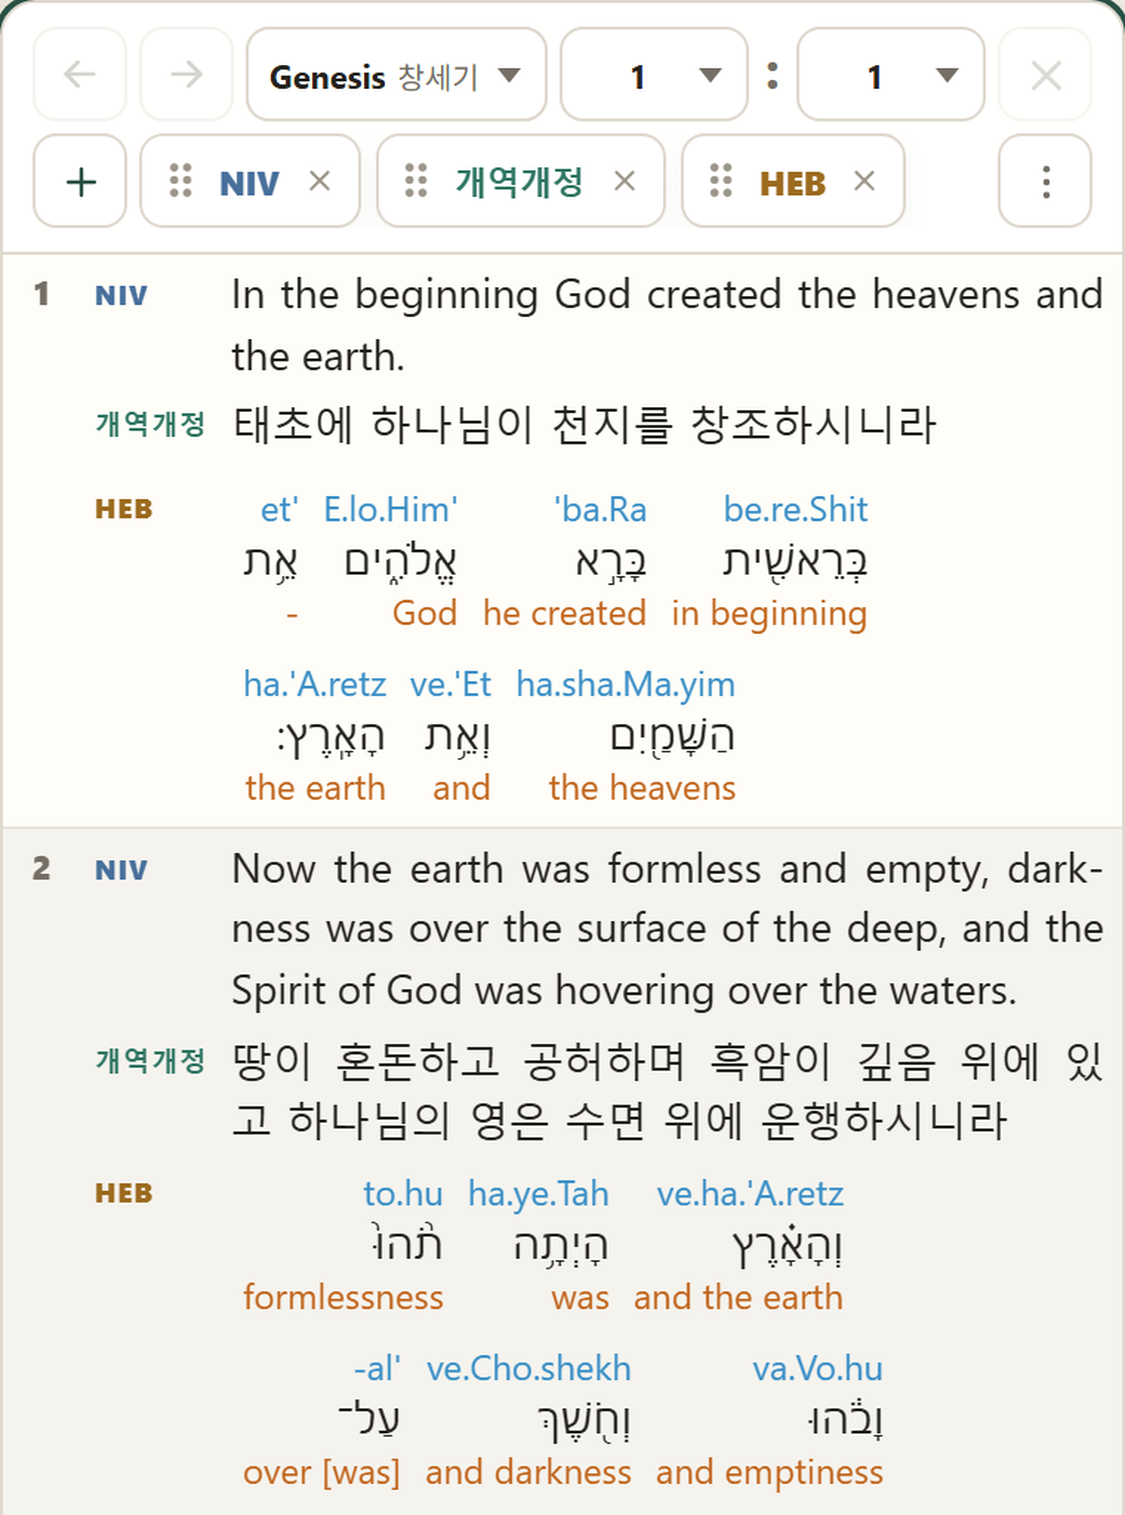
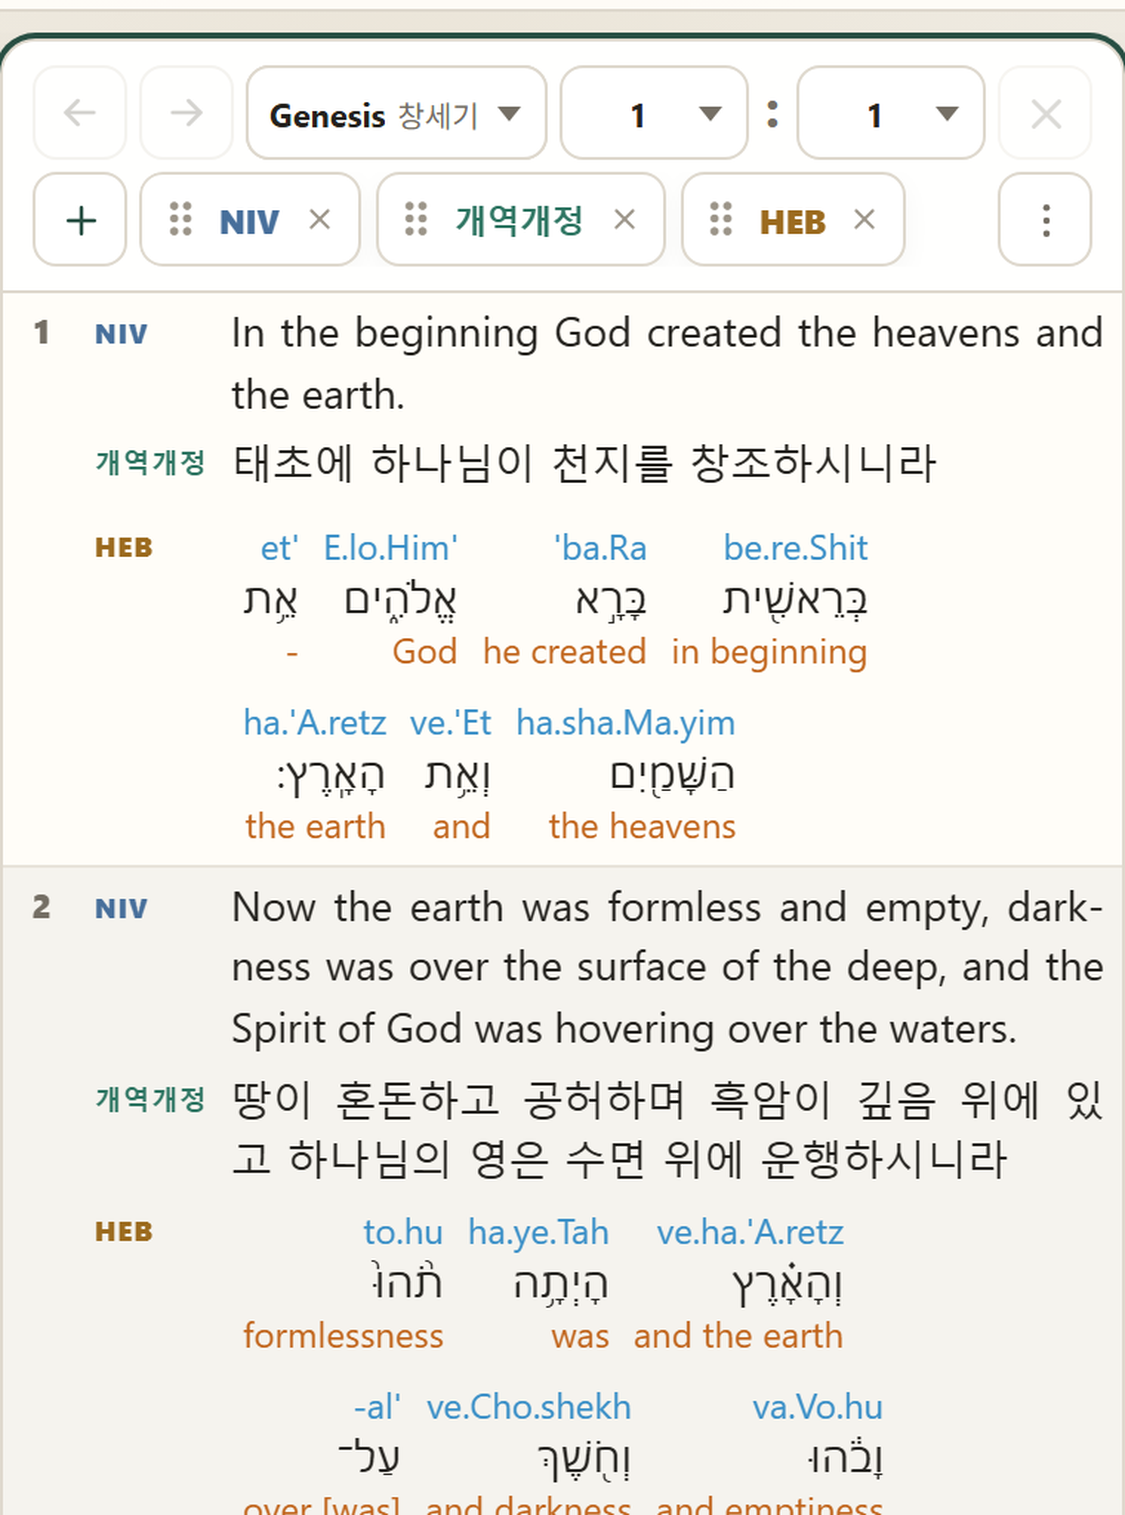
Fix vertical crop offset in 4.3/4.5 example screenshots
The sibling reference screenshots include a small margin above the
panel's own top border before the header row starts; the recaptures
were cropped flush to the panel's bounding box with no such margin,
making the header sit noticeably higher in the frame. Measured the
reference images' top margin via the panel border's exact accent-green
color and offset the capture clip to match (~13 CSS px above the
panel), so the header now starts at the same vertical position.

Changed region(s): [[0.0, 0.0, 1.0, 1.0], [0.0311, 0.5584, 0.1244, 0.6205], [0.0933, 0.7756, 0.1556, 0.8376]]

diff --git a/index.html b/index.html
@@ -23,7 +23,7 @@
     <meta name="twitter:title" content="United Bibles" />
     <meta name="twitter:description" content="A compact multi-panel Bible reader" />
     <meta name="twitter:image" content="https://unitedbibles.org/icons/icon-512.png" />
-    <meta name="asset-version" content="20260917-8" />
+    <meta name="asset-version" content="20260917-9" />
     <meta name="theme-color" content="#284f43" />
     <meta name="apple-mobile-web-app-capable" content="yes" />
     <meta name="apple-mobile-web-app-status-bar-style" content="default" /> 
@@ -32,7 +32,7 @@
     <link rel="manifest" href="./manifest.webmanifest" />
     <link rel="icon" type="image/png" href="./icons/icon-192.png" />
     <link rel="apple-touch-icon" sizes="180x180" href="./icons/icon-180.png" />
-    <link rel="stylesheet" href="./styles.css?v=20260917-8" />
+    <link rel="stylesheet" href="./styles.css?v=20260917-9" />
     <!-- Applies the saved theme before first paint so a dark-theme visitor
          never sees a light-theme flash while app.js's module script (and
          its manifest.json fetch) is still loading. Reads the same
@@ -1644,6 +1644,6 @@
     </div>
 
     <noscript>JavaScript is required to display the Bible text.</noscript>
-    <script type="module" src="./app.js?v=20260917-8"></script>
+    <script type="module" src="./app.js?v=20260917-9"></script>
   </body>
 </html>
